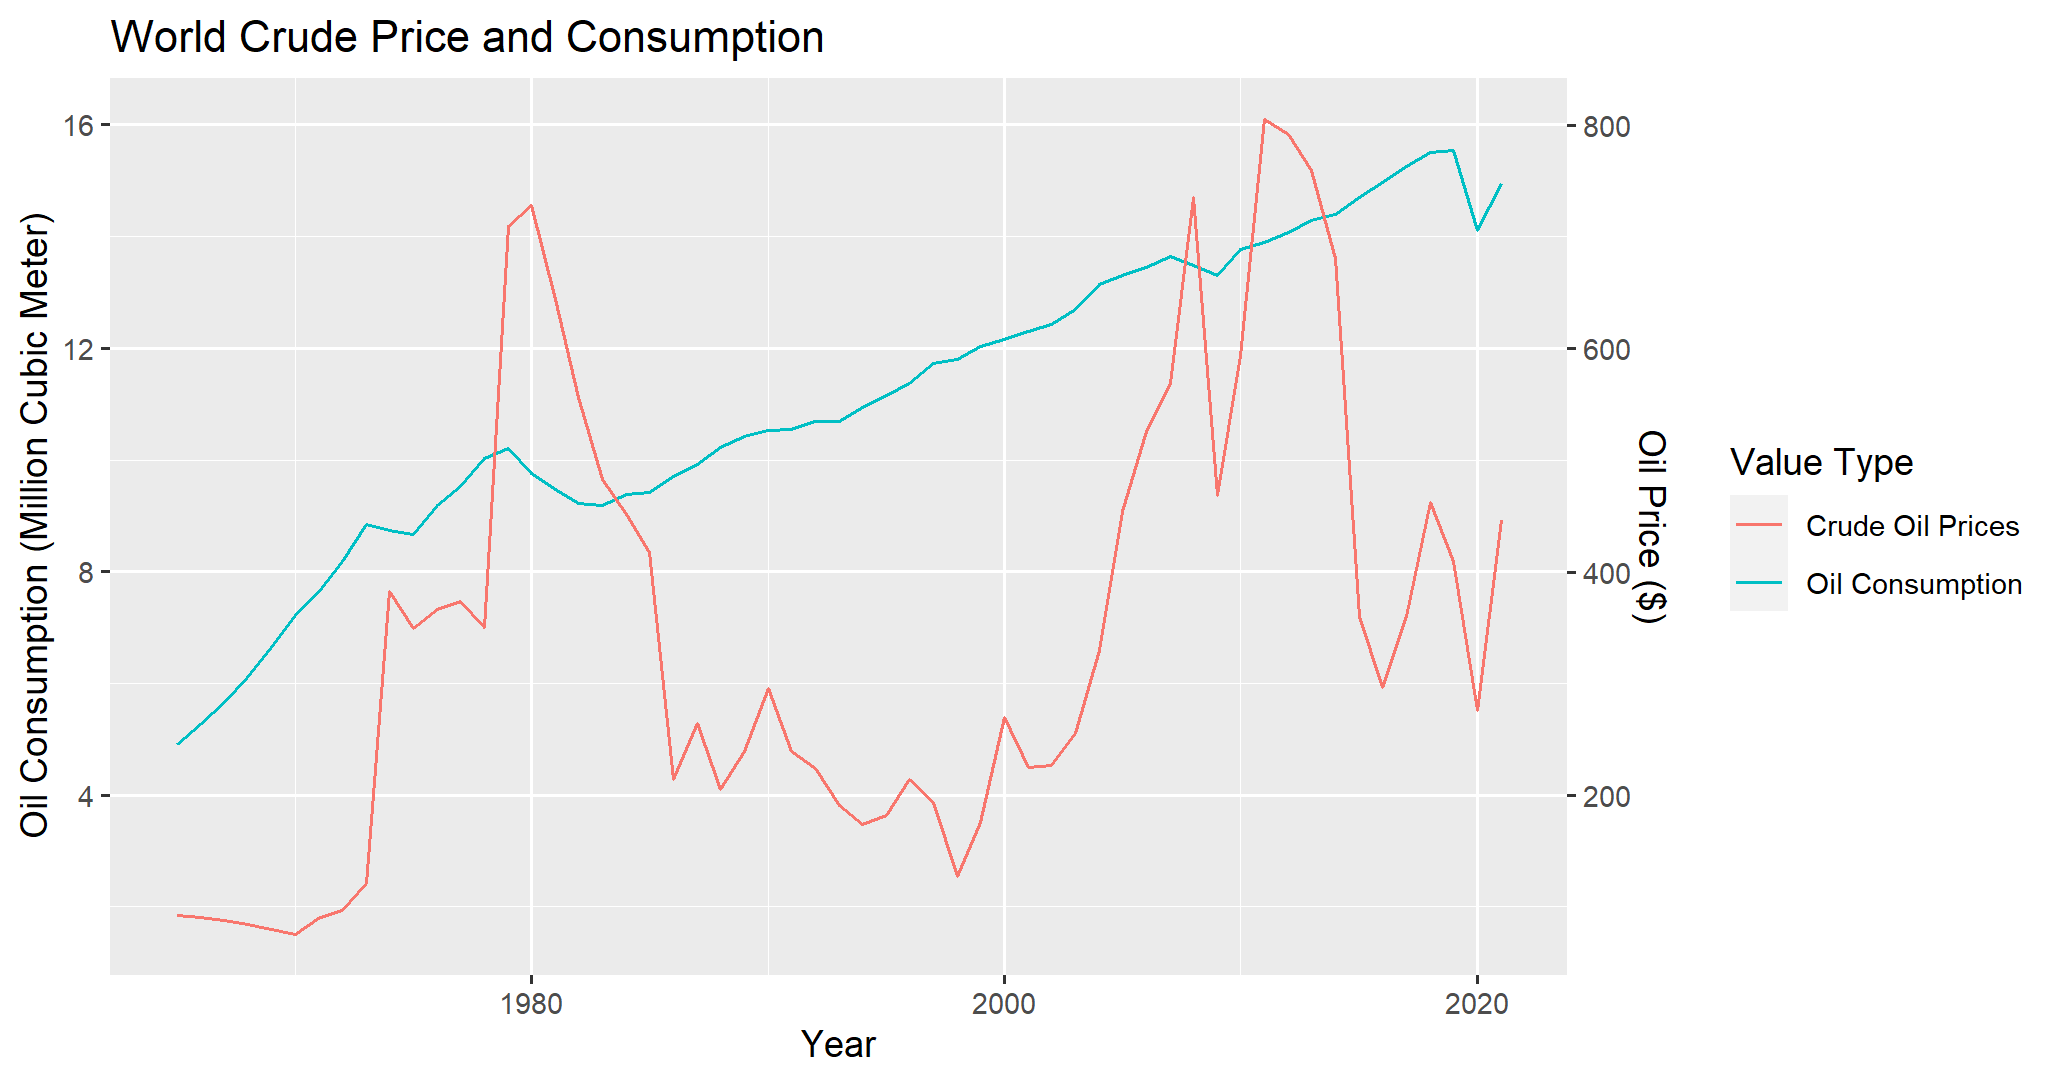
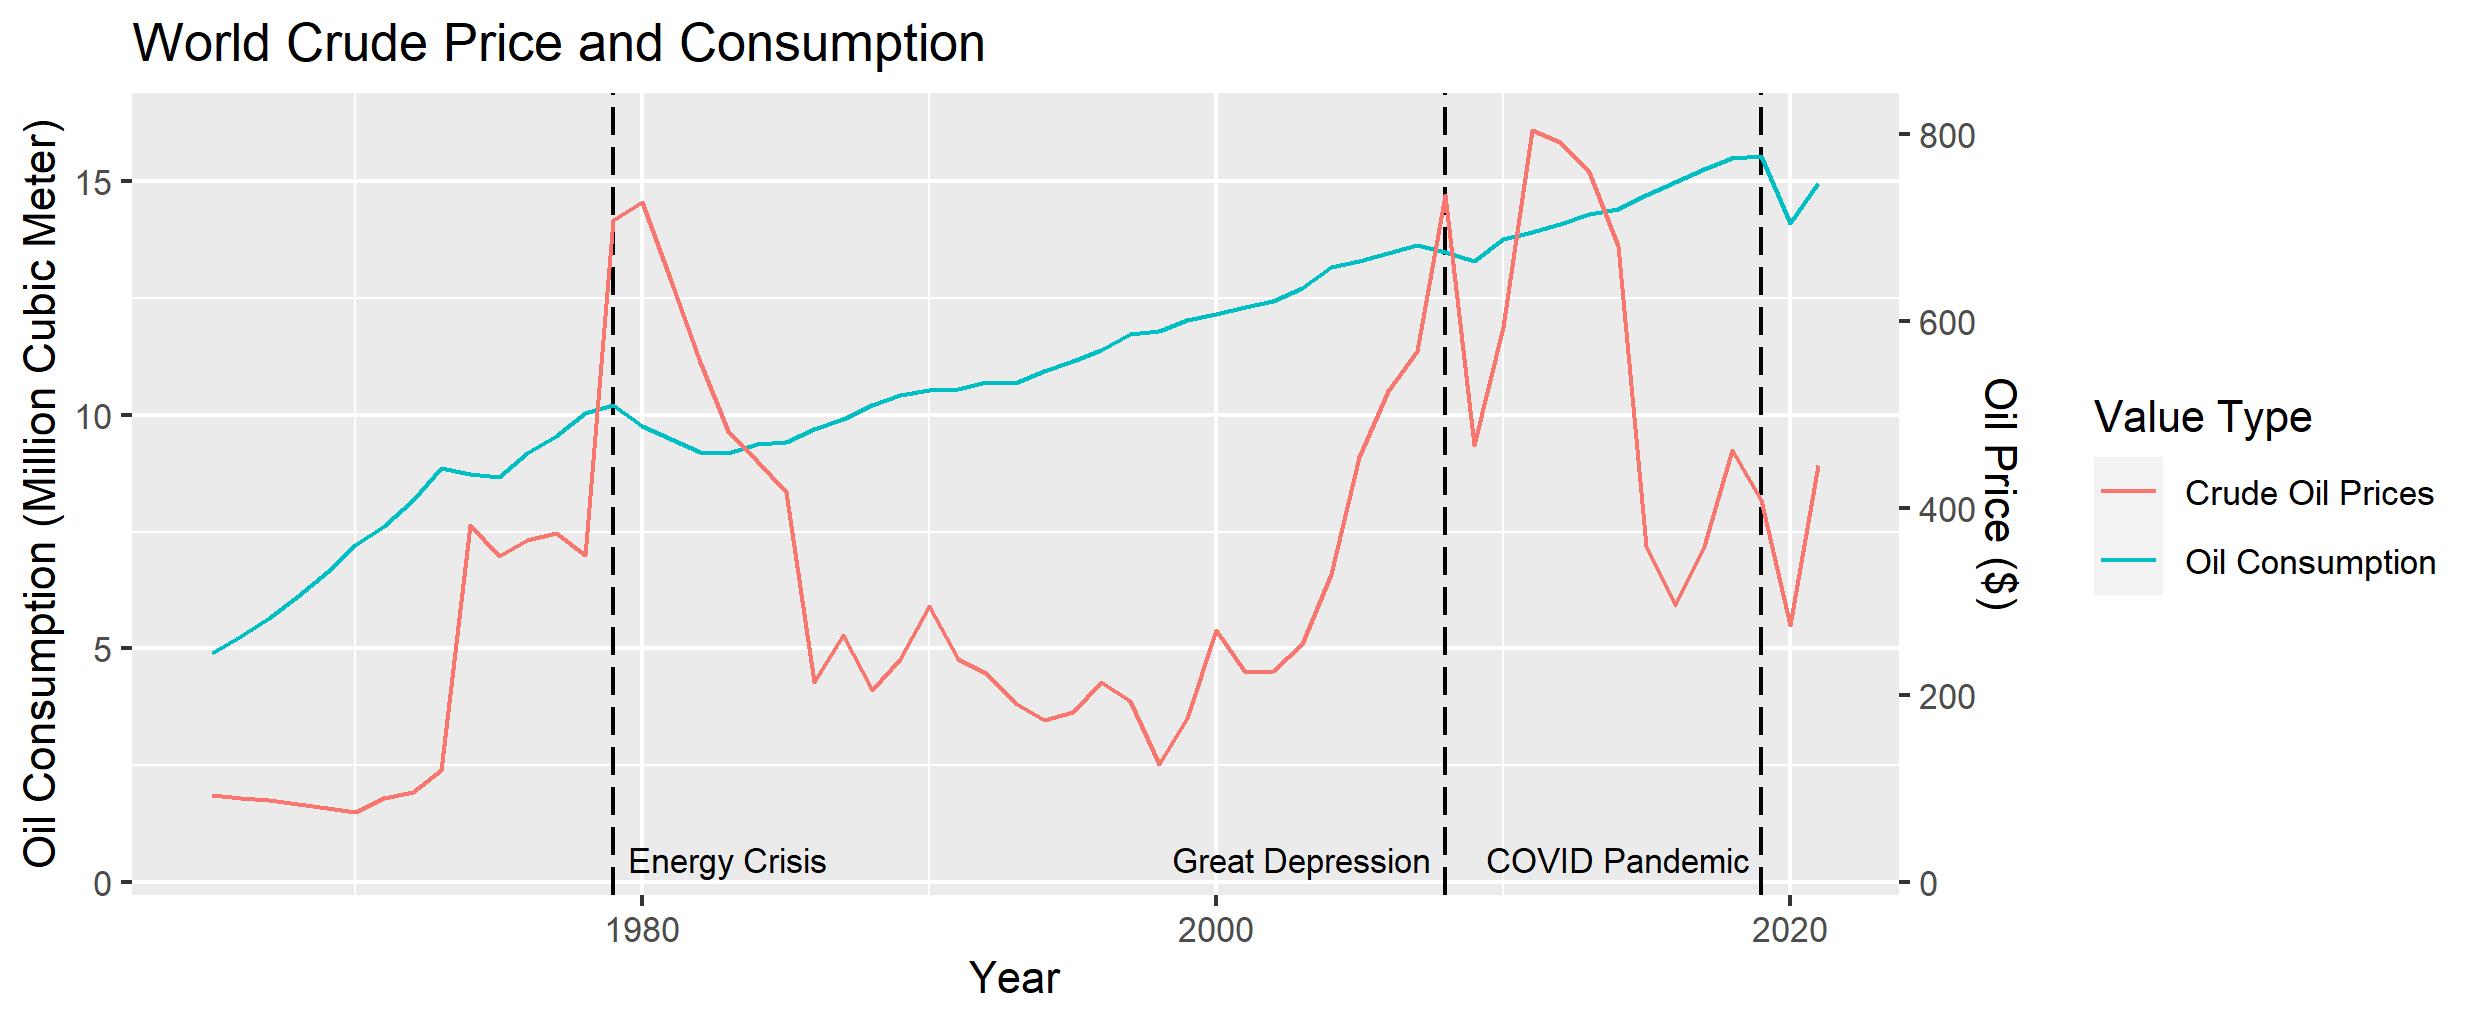
Update Blog

diff --git a/Short_Form_Blog_1.md b/Short_Form_Blog_1.md
@@ -33,6 +33,12 @@ A good policy should be guided by pollution per capita while keeping inequalitie
 <img src="Figures/ShortFormBlog-1/Plot6.png" width="800" />
 </p>
 
-Next, I will discuss some factors that might affect our greenhouse gas emissions. One of the key factors is our use of oil. I created a plot of crude oil prices and oil consumption. As shown in the plot, the long-term impact of oil prices on oil demand is relatively small. Despite the fluctuations, the overall upward trend of oil demand remained unchanged. However, it is noticeable that around 1980, 2008, and 2019, oil consumption took a hit. These events relate to economic recessions rather than oil price changes. Therefore, I predict that while the price hike caused by the war in Ukraine is unlikely to alter global demand, a recession caused by soaring inflation might do the job. We should expect to see the post-pandemic surge in oil usage ease in the coming months, and this could be a positive sign for the effort to curb global warming. 
+Next, I will discuss some factors that might affect our greenhouse gas emissions. Based on the EPA, transportation accounts for 28% of our greenhouse gas emission. Furthermore, more than 90% of the fuel used are petroleum based. I created a plot of crude oil prices and oil consumption. As shown in the plot, the long-term impact of oil prices on oil demand is relatively small. Despite the fluctuations, the overall upward trend of oil demand remained unchanged. However, it is noticeable that around 1979, 2008, and 2019, oil consumption took a hit. These events relate to economic recessions rather than oil price changes. Therefore, I predict that while the price hike caused by the war in Ukraine is unlikely to alter global demand, a recession caused by soaring inflation might do the job. We should expect to see the post-pandemic surge in oil usage ease in the coming months, and this could be a positive sign for the effort to curb global warming.
+
+<p align="center">
+<img src="Figures/ShortFormBlog-1/Plot7.png" width="800" />
+</p>
+
+Another important source of greenhouse gas emission is electricity generation, which, according to the EPA, accounts for 25% of the greenhouse produced by the United States. Recently, there are some promising developments. According to the plot above, the energy source used by power plants in the US is gradually trending toward zero-emission sources like solar, hydroelectric, and nuclear. When coupled with the increasing sale of EVs, electricity has huge potential to reduce emissions in the years to come. However, it is important to note that if Republicans take back the Senate and House in the midterm or the White House in 2024, they might slow down the transition to green energy due to their conservative views on this issue.
 
 [Click Here to Return to Homepage](README.md)
